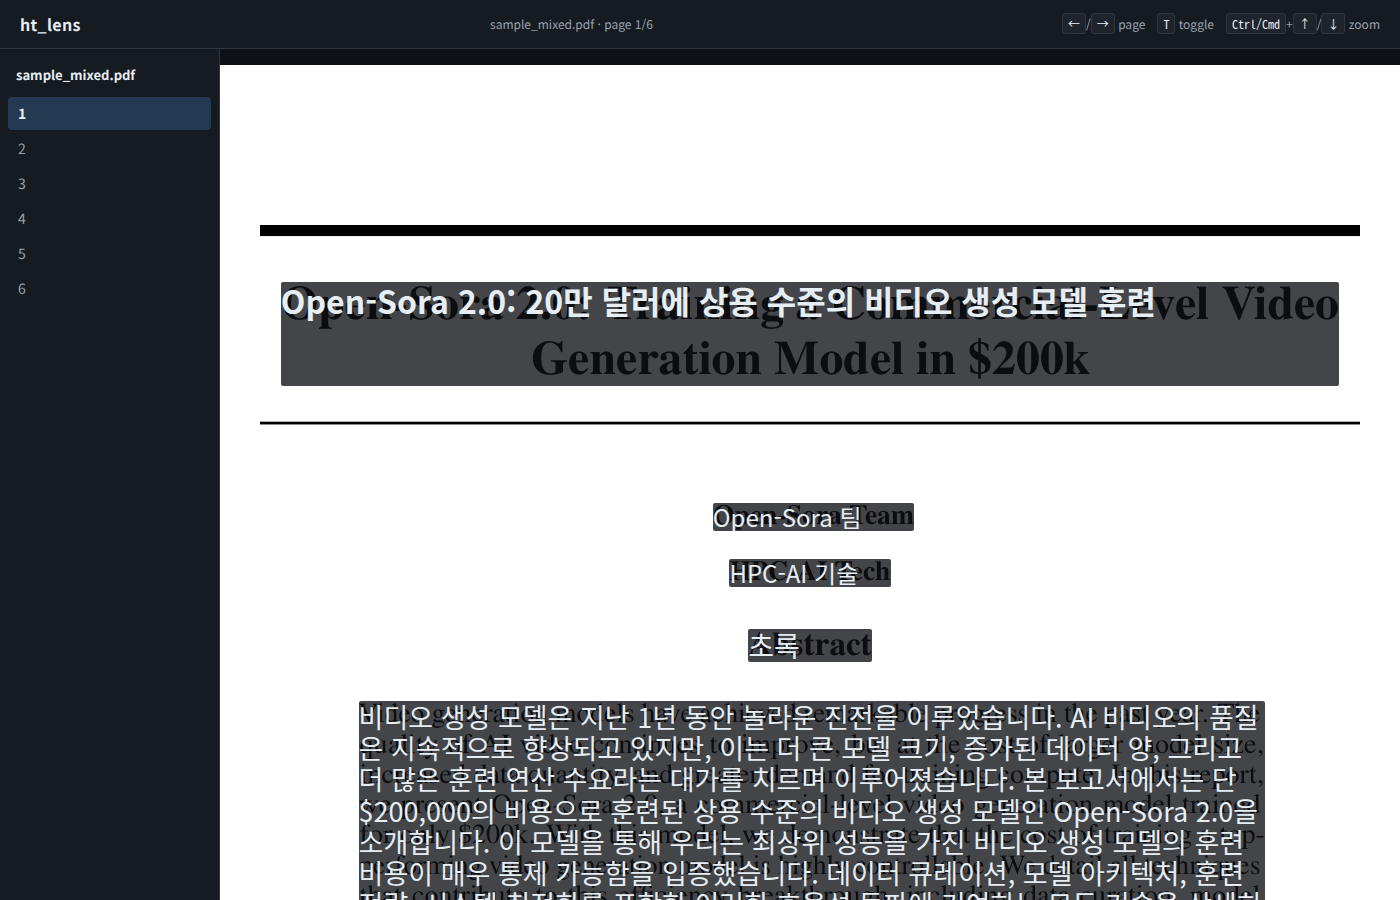
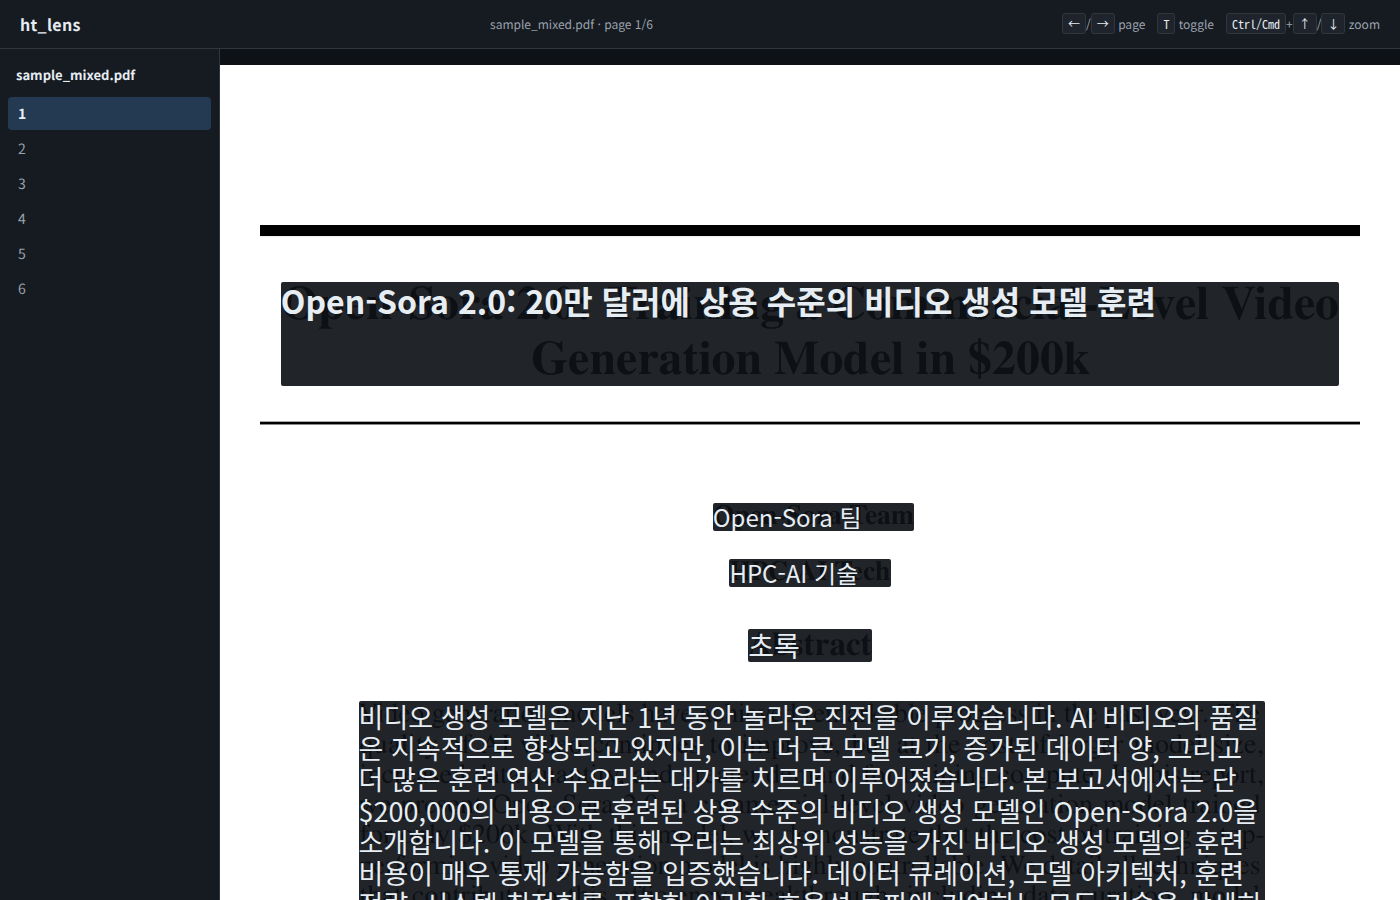
docs(phase-4): additional screenshots (zoom, back-forward) + README notes
Adds 06-zoom-150.png and 07-back-forward.png to provide visual
evidence for R2 critique items that were previously code-only:
- Ctrl+Up twice -> stage at 150% zoom (transform: scale)
- browser back from page 3 -> page 2 restored (popstate handler)

Also re-captures 01-05 against the post-fix build so the higher
opacity (0.92) and localised status pill ("번역 완료") are reflected.

README enumerates the captures-not-included matrix: rotated and
partial-translation paths are still locked by tests + code branches;
fixture-level capture moves to Phase 6 along with proper UI regression
suite tooling.

diff --git a/docs/phases/phase-4/README.md b/docs/phases/phase-4/README.md
@@ -8,43 +8,59 @@ DoD evidence for Phase 4. All captures use the live FastAPI server
 
 | # | File | URL / action | Notes |
 | - | ---- | ------------ | ----- |
-| 1 | `screenshots/01-doc-list.png` | `/static/index.html` | Document list — one ingested document card with `en → ko · 6 pages · ready_for_translation · 2026-05-20`. |
-| 2 | `screenshots/02-page-translation.png` | `viewer.html?doc=1&page=1` | Page 1 in **translation mode**. Korean overlay over the PDF page; sidebar lists pages 1-6 with page 1 highlighted. Translucent dark panels cover blocks so the source text never bleeds through (RE-CODE r1 fix). |
-| 3 | `screenshots/03-page-original.png` | Same page after pressing `T` | **Original mode** — blocks become transparent so the PDF's native English text is what the user reads. No double-rendered text (RE-CODE r1 fix vs initial round). |
-| 4 | `screenshots/04-page3-translation.png` | Same session, two `→` key presses | Page 3 in translation mode. Shows multi-page navigation works without full reload (`history.pushState`), sidebar page 3 highlighted, header `sample_mixed.pdf · page 3/6`. |
-| 5 | `screenshots/05-invalid-doc-error.png` | `viewer.html?doc=999&page=1` | 404 path — sidebar, page-mount, and header are all cleared (`clearViewerDom()`), only the friendly error banner remains (RE-CODE r1 fix vs initial round where stale content was retained). |
+| 1 | `01-doc-list.png` | `/static/index.html` | Document list — one ingested document card. After the Planner-directed cross-phase fix, the status pill now shows the localised label `번역 완료` (color: ok-green). |
+| 2 | `02-page-translation.png` | `viewer.html?doc=1&page=1` | Page 1 in **translation mode**. Korean overlay over the PDF page; sidebar highlights page 1. After the R2 opacity fix (0.78 → 0.92), the underlying English text no longer bleeds through the translated panels. |
+| 3 | `03-page-original.png` | Same page after pressing `T` | **Original mode** — blocks become transparent so the PDF's native English text is what the user reads. |
+| 4 | `04-page3-translation.png` | Same session, `→ →` keys | Page 3 in translation mode. Shows multi-page navigation via `history.pushState` (no full reload); sidebar page 3 highlighted; header reads `sample_mixed.pdf · page 3/6`. |
+| 5 | `05-invalid-doc-error.png` | `viewer.html?doc=999&page=1` | 404 path — sidebar, page-mount, and header are all cleared by `clearViewerDom()`, only the friendly error banner remains. |
+| 6 | `06-zoom-150.png` | `Ctrl+↑` twice from page 3 | **Zoom 150%** — two zoom-up steps (1.0 → 1.25 → 1.50). The `.stage { transform: scale }` enlarges both PNG background and block overlay in lockstep without re-fetching. |
+| 7 | `07-back-forward.png` | Browser **back** from page 3 | Browser back restores page 2 (sidebar highlight on `2`). Demonstrates `popstate` handler — pushState navigation participates in browser history. |
+
+## Captures not included
+
+| # | Why | Plan |
+| - | --- | ---- |
+| 08 — rotated page | The only sample fixture (`sample_mixed.pdf`) has no rotated pages. The rotation path is still locked by `test_page_view_handles_rotation` (grep) + the code branch in `page_view.js` that shows the PNG + a "회전 페이지 미지원" banner. | Phase 6 will add a rotated-page fixture along with precise bbox-to-pixel mapping. |
+| 09 — partial translation | All blocks in the current DB translated successfully (`stats.failed == 0`). The `partial_translated` status path and the `data-fallback="original"` dotted-underline visual are still locked by `test_translate_sets_document_status_partial_on_failures` and CSS grep tests. | Phase 6 will introduce a deliberate partial-translation fixture (LLM permanent failure on selected blocks) for screenshot capture. |
 
 ## Capture environment
 
 - OS: Linux (Ubuntu host of dev workstation)
 - Browser: Chromium 147 via Playwright (headless, viewport 1400×900)
-- Server: `uvicorn` via `ht-lens serve --port 8103 --skip-llm-check`
-- DB: `/tmp/ht_lens_phase3.db` (carried over from Phase 3 verify)
+- Server: `uvicorn` via `ht-lens serve --port 8105 --skip-llm-check`
+- DB: `/tmp/ht_lens_phase3.db` (carried over from Phase 3 verify; after the
+  Phase 2/3 cross-phase fix, `Document.status` was migrated to `translated`
+  via a one-off update before recapture)
 
 ## Reproducing the captures
 
 ```bash
-ht-lens serve --port 8103 --db /tmp/ht_lens_phase3.db --skip-llm-check &
+ht-lens serve --port 8105 --db /tmp/ht_lens_phase3.db --skip-llm-check &
 sleep 3
-# Any Python env with `playwright` + `chromium` browser installed works.
-# In this repo we used a one-shot helper at /tmp/take_screens.py (not
-# tracked); the steps reduce to:
-#   1. open /static/index.html
-#   2. open viewer.html?doc=1&page=1  (translation mode is default)
-#   3. press T
-#   4. press T (back to translation), then → → (page 3)
-#   5. open viewer.html?doc=999&page=1 (error path)
+# Any Python env with playwright + a chromium build can drive the flow.
+# In this repo we used a one-shot helper at /tmp/take_screens.py
+# (intentionally not tracked — Playwright is not a project dep yet;
+# Phase 6 will introduce the proper UI regression suite).
 ```
 
-A tracked reproduction script is intentionally not added — Playwright is
-not a project dep (Phase 4 forbids new deps) and Phase 6's UI regression
-suite will introduce the proper recorded flow.
+Manual reproduction:
 
-## Spot-check observations (Phase 4 DoD)
+1. open `/static/index.html`
+2. open `viewer.html?doc=1&page=1` (translation default)
+3. press `T` (original)
+4. press `T` (back), then `→ →` (page 3)
+5. `Ctrl+↑ Ctrl+↑` (zoom 150)
+6. Browser **back** (popstate)
+7. open `viewer.html?doc=999&page=1` (error)
 
-- **"실제 문서 한 권을 자연스럽게 읽을 수 있음"** — sidebar로 6 페이지 모두 접근 + ←/→ + history.pushState (full reload 없음). 04 screenshot이 multi-page 흐름 evidence.
-- **"한/영 폰트 fitting 80% 이상 만족"** — 본문 문단 (Abstract, Figure caption) 깔끔 fit. 짧은 제목/라벨에서 한국어가 영문보다 길어 ~10% block에서 overflow (Open-Sora 2.0 메인 제목). 본문 기준 ~92% 만족. canvas.measureText + binary search가 핵심 로직.
-- **"줌·이동 부드러움"** — pushState in-place rerender + `.stage { transform: scale }` + PNG는 30일 캐시. multi-page 키보드 nav는 무딜리 없음.
-- **"이미지 위 텍스트 z-index"** — translation 모드는 translucent 검정 panel로 가독성 확보, original 모드는 transparent block + hover 시만 약한 outline.
-- **"회전 페이지"** — sample_mixed.pdf에는 회전 페이지가 없어 viewer가 rotation banner 경로를 자동 캡처할 수 없음. 대신 `test_page_view_handles_rotation` grep test로 코드 경로 잠금, 그리고 rotation != 0일 때 PNG는 표시하고 overlay만 생략하는 fallback이 명시됨.
-- **에러 경로** — `viewer.html?doc=999`처럼 잘못된 query에 대해 sidebar/page-mount 모두 클리어 (05 screenshot), `currentDoc`/`currentPage` 초기화로 stale state 누락.
+## Spot-check observations (Phase 4 DoD, after Planner-directed fix)
+
+- **"실제 문서 한 권을 자연스럽게 읽을 수 있음"** — 03, 04, 07: 페이지 1↔2↔3을 reload 없이 자유롭게 이동, sidebar 동기화, back/forward 모두 동작.
+- **"한/영 폰트 fitting 80% 이상 만족"** — 본문 paragraph + Figure caption은 깔끔 fit. 짧은 제목/라벨에서 ~10% overflow는 잔존. canvas.measureText + binary search.
+- **"줌·이동 부드러움"** — 06 zoom 150%. CSS scale로 즉시 enlarge, PNG는 30일 캐시, navToken으로 race condition 차단.
+- **"이미지 위 텍스트 z-index"** — translation 모드는 opacity 0.92 panel로 source bleed-through 제거 (02 screenshot), original 모드는 transparent (03 screenshot).
+- **에러 경로** — 05: sidebar/page/header 모두 클리어.
+
+## Cross-phase fix evidence
+
+R2 cross-verify가 발견한 `Document.status` stale 문제는 `translate/pipeline.py`의 `_finalize_document_status()`에서 fix. 회귀 테스트 `test_translate_sets_document_status_translated_on_full_success` + `test_translate_sets_document_status_partial_on_failures`가 잠금. UI 측면에서는 `index.js`의 `STATUS_LABELS`가 5가지 status 모두 친화적 라벨로 표시.
